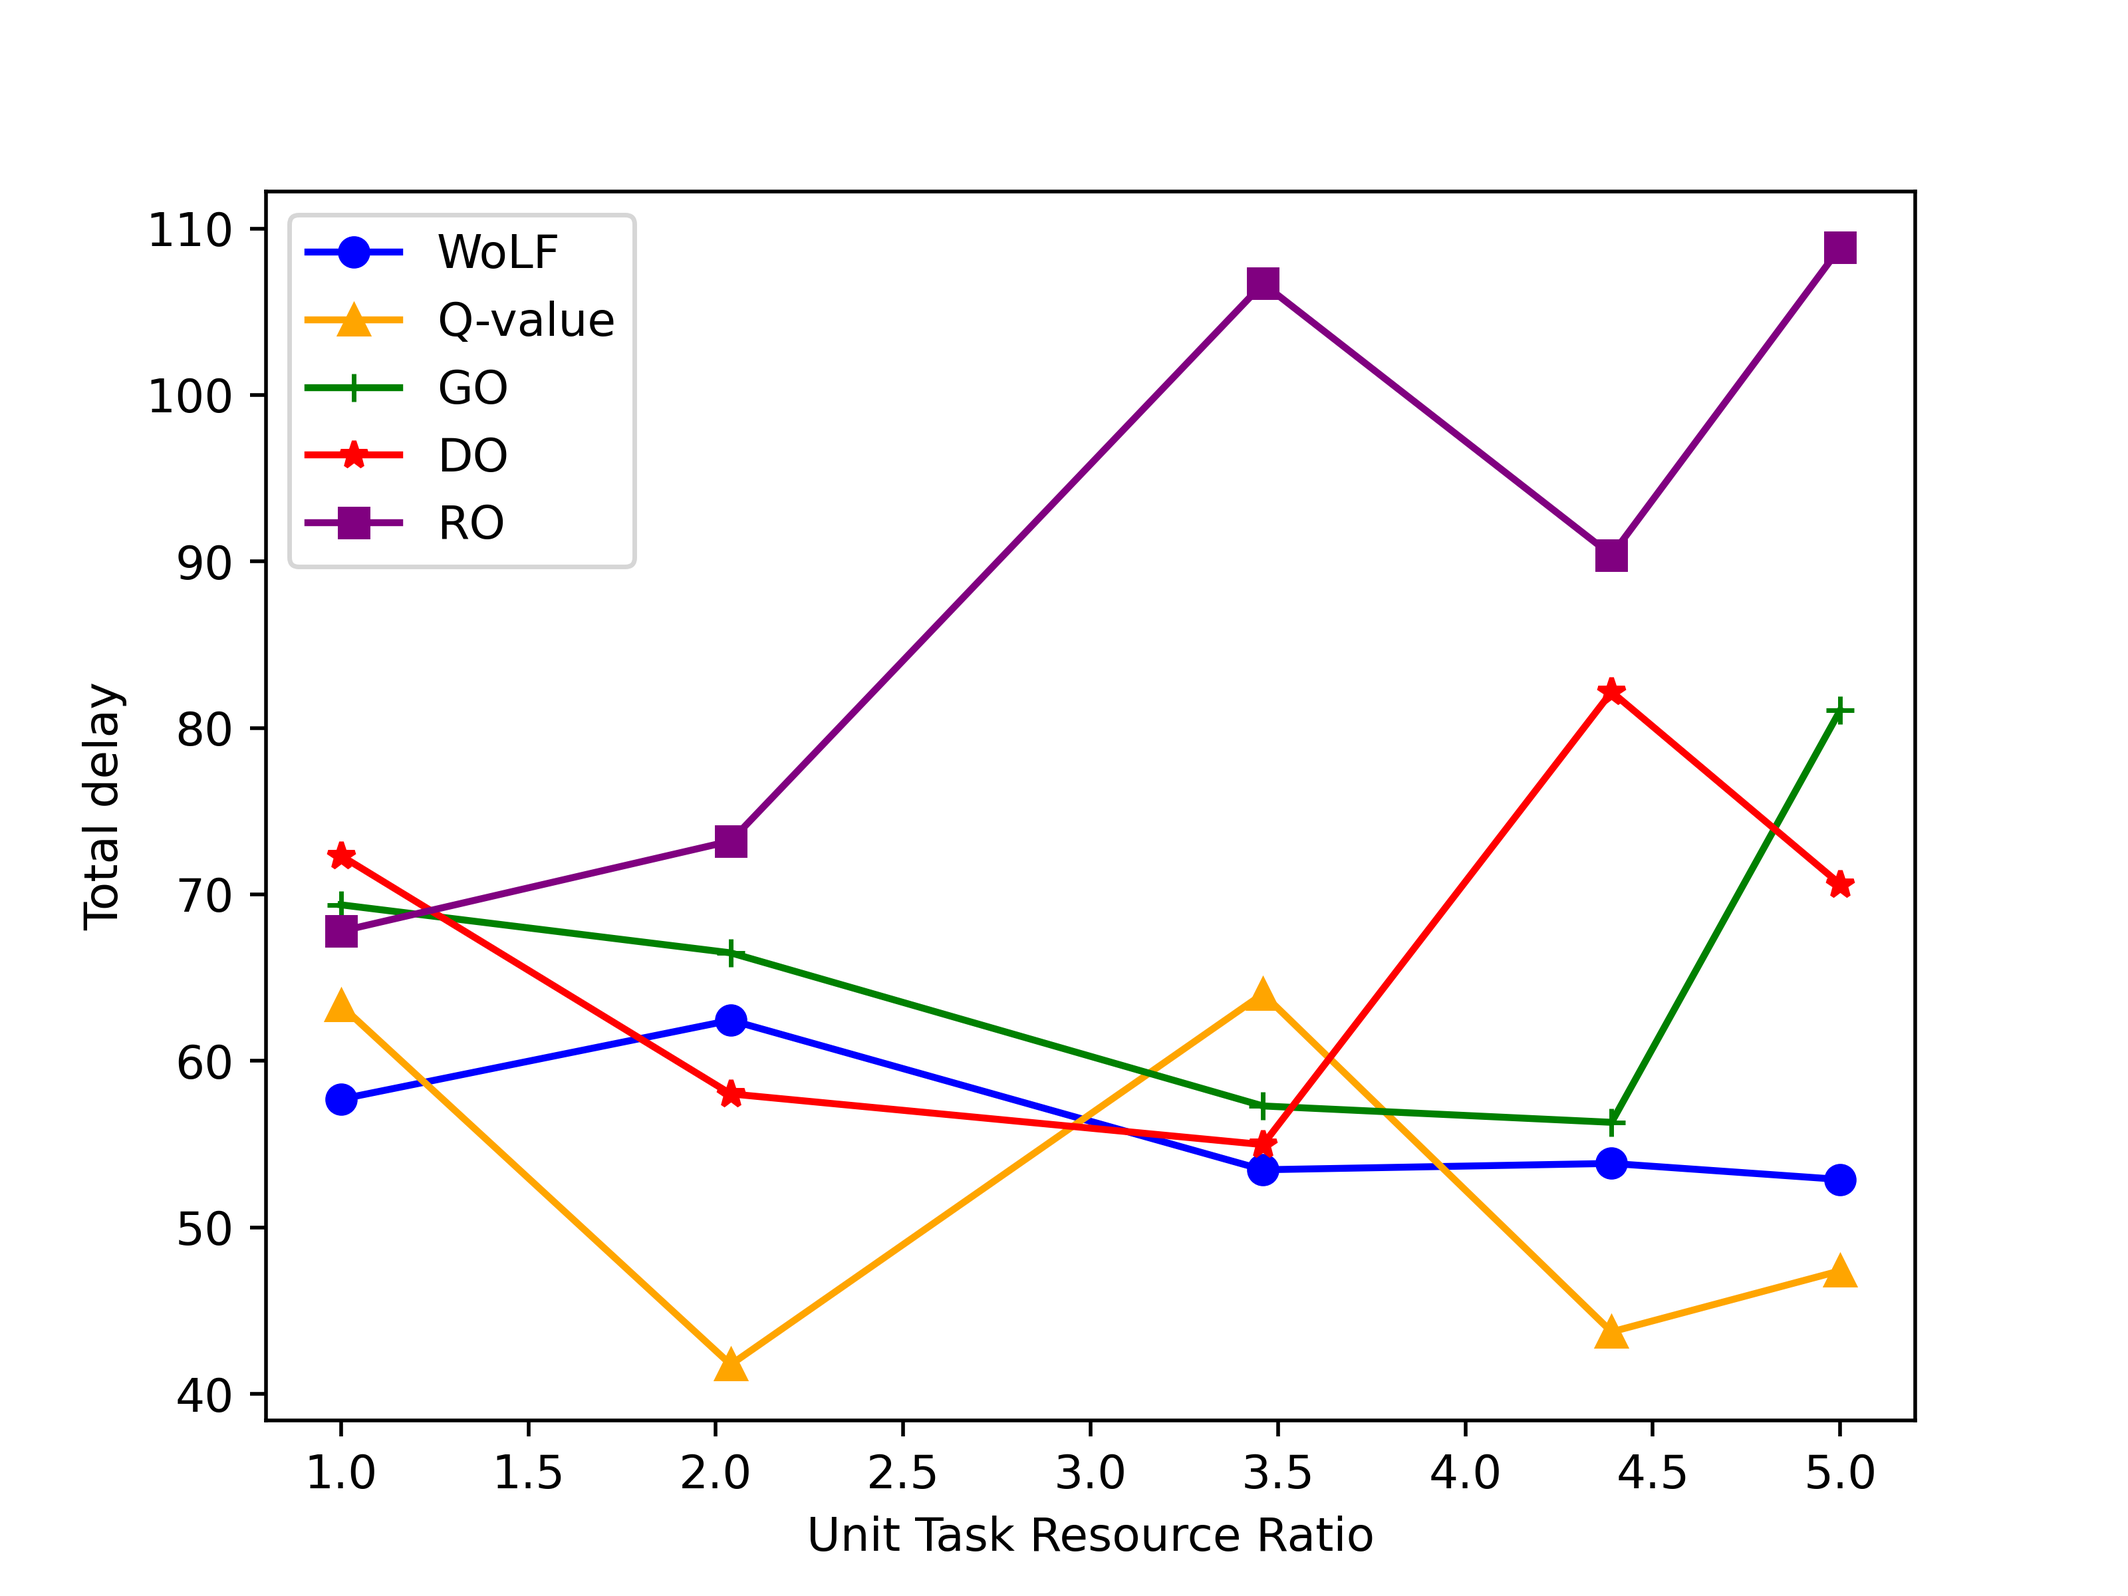
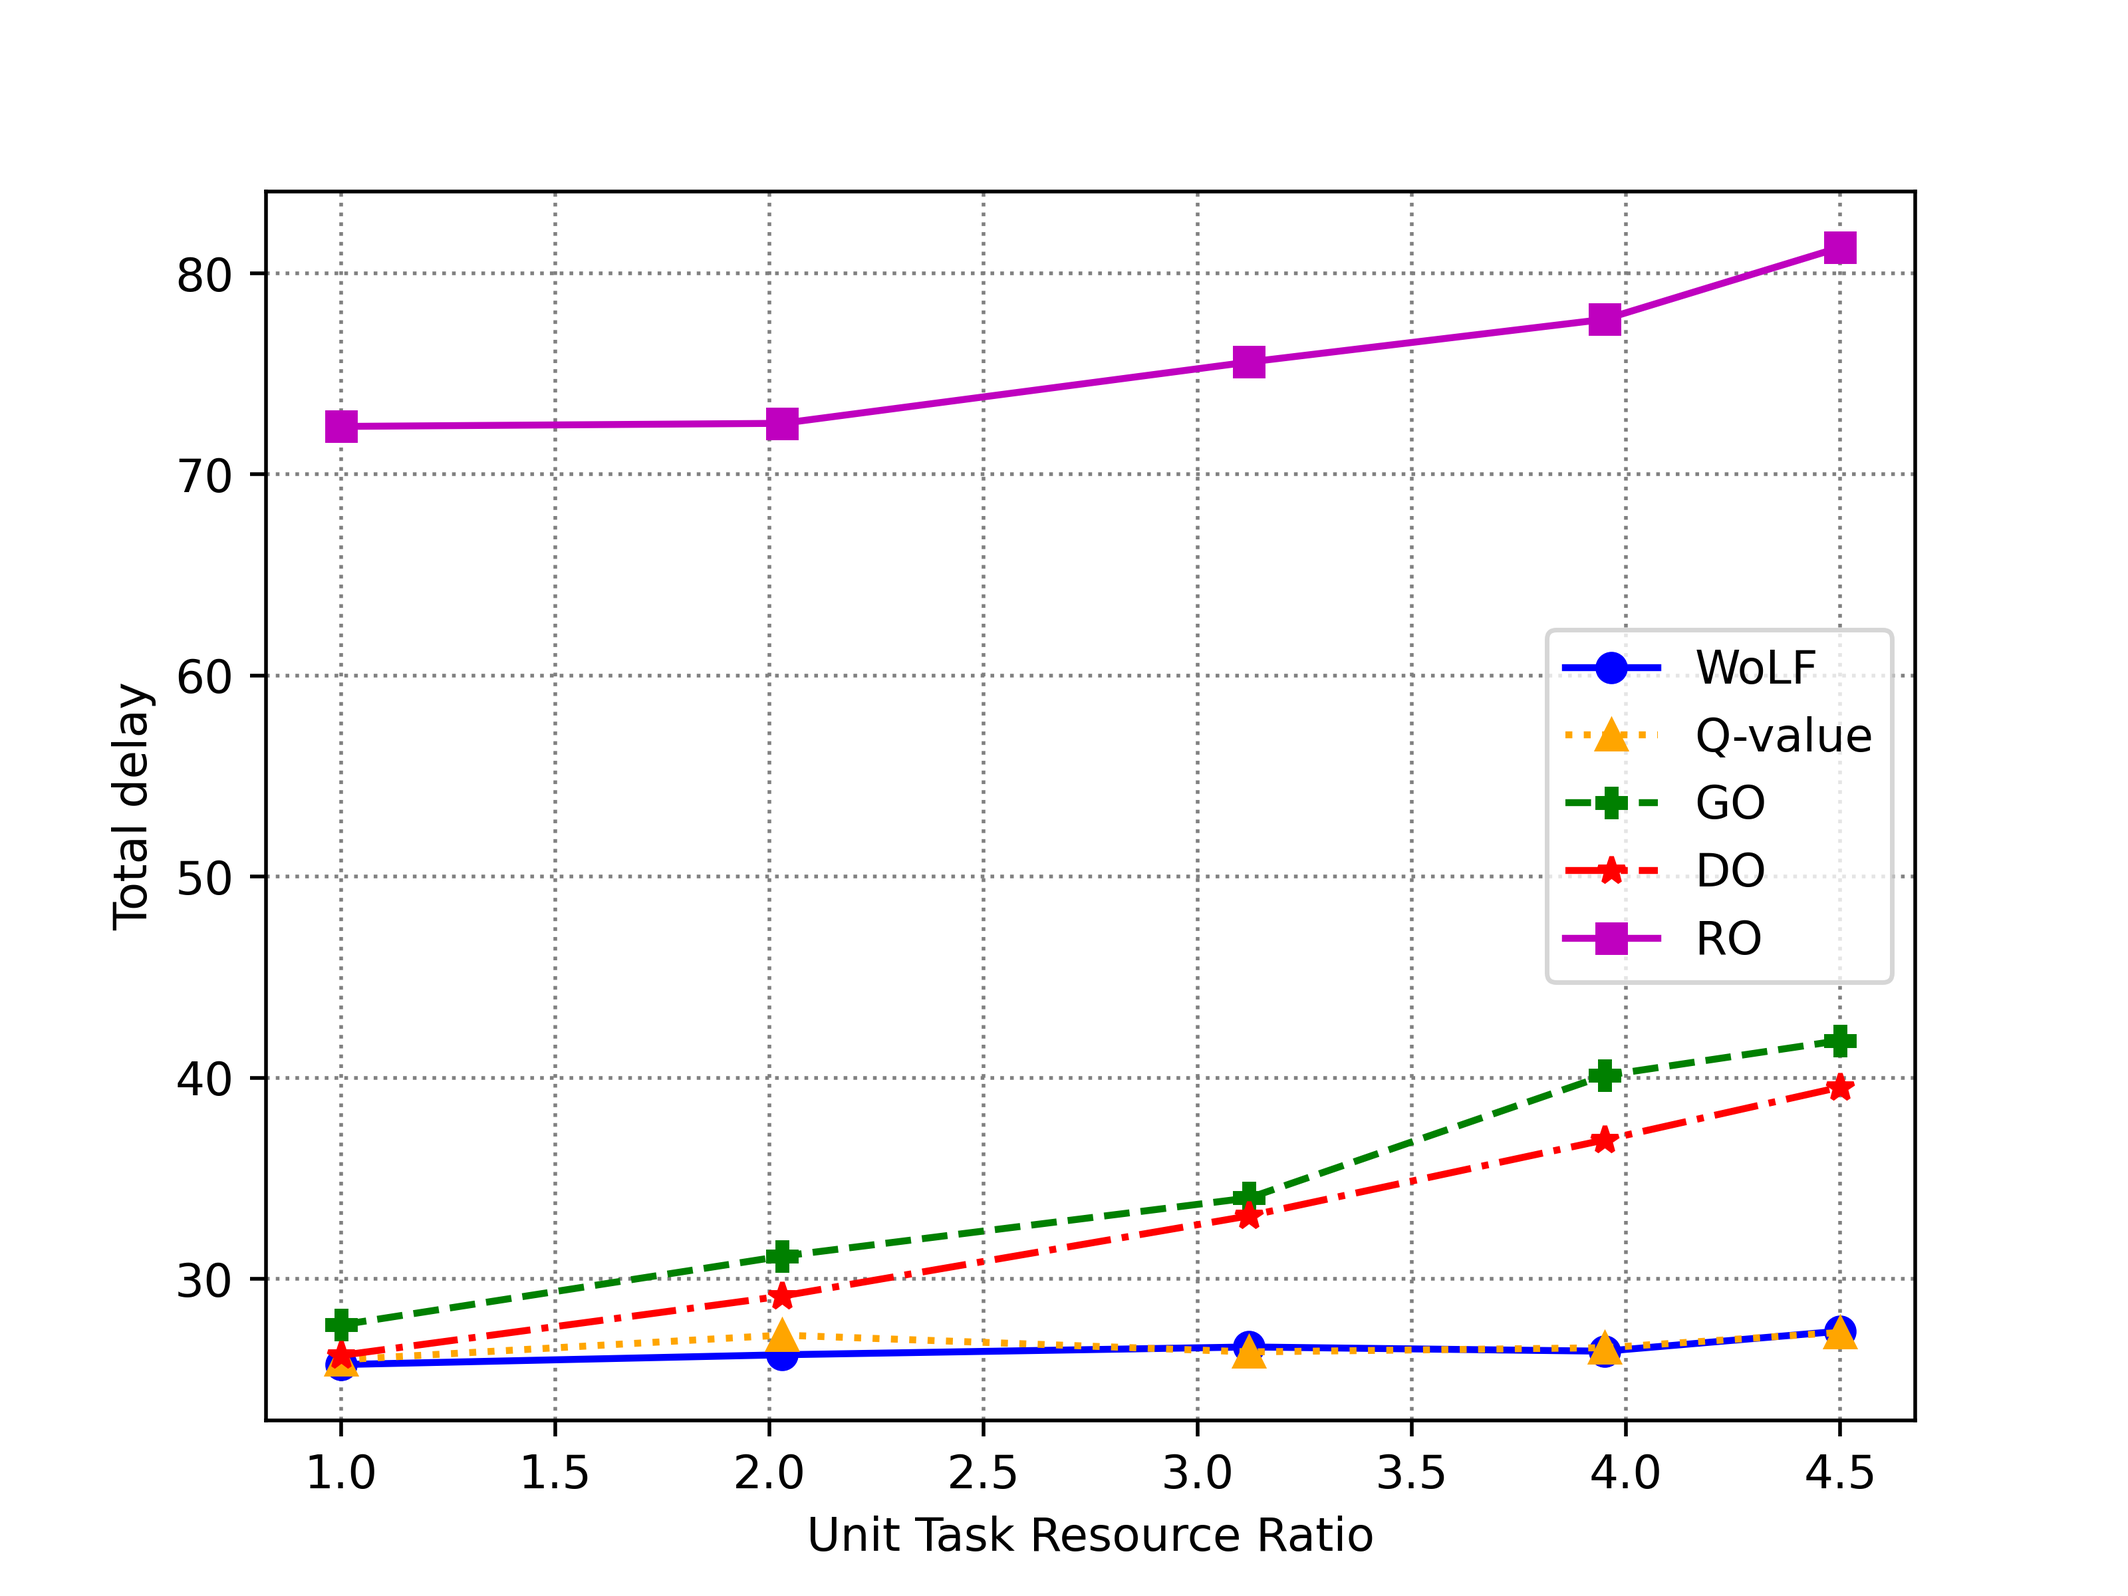
add

diff --git a/main.py b/main.py
@@ -31,7 +31,6 @@ def get_all_env():
         ap = AP(id=i, loc=loc, total_b=total_b, total_f=total_f, group=group)
         all_aps[group].append(ap)
 
-
     # if m == 4:
     #     ap_matrix = np.array([[0, 1, 1, 0],
     #                           [1, 0, 0, 1],
@@ -68,9 +67,9 @@ def get_all_env():
                     random.randint(WIRED_WIDTH_MIN, WIRED_WIDTH_MAX)
             else:
                 wired_width[i][j] = wired_width[i][j]
-    
+
     return {
-        'all_devices': all_devices, 
+        'all_devices': all_devices,
         'all_aps': all_aps,
         'ap_matrix': ap_matrix,
         'wired_width': wired_width
@@ -80,10 +79,10 @@ def get_all_env():
 def set_env(config, all_env):
     m = config['M'] if 'M' in config.keys() else M
     n = config['N'] if 'N' in config.keys() else N
-    num_ap_of_group1 = m / 2
-    num_ap_of_group2 = m / 2
-    num_md_of_group1 = n * MD_GROUP_RATIO[0] / sum(MD_GROUP_RATIO)
-    num_md_of_group2 = n * MD_GROUP_RATIO[1] / sum(MD_GROUP_RATIO)
+    num_ap_of_group1 = config['num_ap_of_group1'] if 'num_ap_of_group1' in config.keys() else m / 2
+    num_ap_of_group2 = config['num_ap_of_group2'] if 'num_ap_of_group2' in config.keys() else m / 2
+    num_md_of_group1 = config['num_md_of_group1'] if 'num_md_of_group1' in config.keys() else n * MD_GROUP_RATIO[0] / sum(MD_GROUP_RATIO)
+    num_md_of_group2 = config['num_md_of_group2'] if 'num_md_of_group2' in config.keys() else n * MD_GROUP_RATIO[1] / sum(MD_GROUP_RATIO)
 
     all_devices = all_env['all_devices']
     all_aps = all_env['all_aps']
@@ -104,7 +103,7 @@ def set_env(config, all_env):
                 break
     for idx, device in enumerate(devices):
         device.id = idx
-    
+
     aps = []
     aps_id = []
     for i in range(len(all_aps)):
@@ -131,22 +130,31 @@ def set_env(config, all_env):
 
 def get_balance_result(ex_config, all_env):
     results = [[] for _ in range(len(ex_config['methods']))]
-    for idx, method_name in enumerate(ex_config['methods']):
-        for n in ex_config['num_md_of_group']:
-            env_config = {
-                'num_md_of_group1': n[0],
-                'num_md_of_group2': n[1]
-            }
-            env = set_env(env_config, all_env)
-            result = train(env, method_name, config=ex_config['method_config'])
-            results[idx].append(result)
-        plt.plot(ex_config['x'], results[idx], color=ex_config['colors'][idx],
-                 marker=ex_config['markers'][idx], linewidth=2, label=method_name)
-    with open('./data/balance_result', mode='w') as f:
+    avg_results = [[] for _ in range(len(ex_config['methods']))]
+    for n in ex_config['num_md_of_group']:
+        print("num_md_of_group1: %d, num_md_of_group2: %d" % (n[0], n[1]))
+        env_config = {
+            'num_md_of_group1': n[0],
+            'num_md_of_group2': n[1]
+        }
+        env = set_env(env_config, all_env)
+        for idx, method_name in enumerate(ex_config['methods']):
+            e = copy.deepcopy(env)
+            sum_result, avg_result = train(e, method_name, config=ex_config['method_config'])
+            results[idx].append(sum_result)
+            avg_results[idx].append(avg_result)
+    with open('./data/balance_result.txt', mode='w') as f:
         for i in range(len(results)):
             for j in range(len(results[i])):
                 f.write('%.4f\t' % results[i][j])
             f.write('\n')
+    with open('./data/avg_balance_result.txt', mode='w') as f:
+        for i in range(len(avg_results)):
+            for j in range(len(avg_results[i])):
+                f.write('%.4f\t' % avg_results[i][j])
+            f.write('\n')
+    draw_balance_result(
+        data=results, ex_config=ex_config)
     # [TODO]标签待确认
     plt.xlabel('Unit Task Resource Ratio')
     plt.ylabel('Total delay')
@@ -155,42 +163,125 @@ def get_balance_result(ex_config, all_env):
     plt.show()
 
 
+def draw_balance_result(ex_config, data=None, file_name=None):
+    if not data and file_name:
+        data = []
+        with open(file=file_name, mode='r') as f:
+            for line in f.readlines():
+                data.append([float(i) for i in line.strip().split('\t')])
+    elif data:
+        pass
+    else:
+        raise ImportError
+    for idx in range(len(data)):
+        plt.plot(ex_config['x'], data[idx], color=ex_config['colors'][idx],
+                 marker=ex_config['markers'][idx], linestyle=ex_config['linestyles'][idx], label=ex_config['methods'][idx])
+    # [TODO]标签待确认
+    plt.xlabel('Resource imbalance')
+    plt.ylabel('Total delay')
+    plt.grid(ls=':', color='gray')  # 设置网格
+    plt.legend()
+    plt.savefig('./figs/balance_result.png', dpi=500)
+    plt.show()
+
+
 def get_delay_ap_result(ex_config, all_env):
     results = [[] for _ in range(len(ex_config['methods']))]
+    avg_results = [[] for _ in range(len(ex_config['methods']))]
     for m in ex_config['M']:
         print('Num of APs:%d' % m)
         env_config = {
-            'M': m,
-            'num_ap_of_group1': m/2
+            'M': m
         }
         env = set_env(env_config, all_env)
         for idx, method_name in enumerate(ex_config['methods']):
             e = copy.deepcopy(env)
-            result = train(e, method_name, config=ex_config['method_config'])
-            results[idx].append(result)
-    with open('./data/delay_ap_result%d.txt' % N, mode='w') as f:
+            sum_result, avg_result = train(e, method_name, config=ex_config['method_config'])
+            results[idx].append(sum_result)
+            avg_results[idx].append(avg_result)
+    with open('./data/delay_ap_result.txt', mode='w') as f:
         for i in range(len(results)):
             for j in range(len(results[i])):
                 f.write('%.4f\t' % results[i][j])
+            f.write('\n')
+    with open('./data/avg_delay_ap_result.txt', mode='w') as f:
+        for i in range(len(avg_results)):
+            for j in range(len(avg_results[i])):
+                f.write('%.4f\t' % avg_results[i][j])
             f.write('\n')
     draw_delay_ap_result(
         data=results, ex_config=ex_config)
 
 
-def draw_delay_ap_result(ex_config, data=None):
-    # if not data:
-    #     data = []
-    #     with open(file=file_name, mode='r') as f:
-    #         for line in f.readlines():
-    #             data.append([float(i) for i in line.strip().split('\t')])
+def draw_delay_ap_result(ex_config, data=None, file_name=None):
+    if not data and file_name:
+        data = []
+        with open(file=file_name, mode='r') as f:
+            for line in f.readlines():
+                data.append([float(i) for i in line.strip().split('\t')])
+    elif data:
+        pass
+    else:
+        raise ImportError
     for idx in range(len(data)):
         plt.plot(ex_config['M'], data[idx], color=ex_config['colors'][idx],
                  marker=ex_config['markers'][idx], linestyle=ex_config['linestyles'][idx], label=ex_config['methods'][idx])
     # [TODO]标签待确认
     plt.xlabel('Number of APs')
     plt.ylabel('Total delay')
+    plt.grid(ls=':', color='gray')  # 设置网格
     plt.legend()
-    plt.savefig('./figs/delay_ap_result_MD%d.png' % N, dpi=500)
+    plt.savefig('./figs/delay_ap_result.png', dpi=500)
+    plt.show()
+
+
+def get_delay_md_result(ex_config, all_env):
+    results = [[] for _ in range(len(ex_config['methods']))]
+    avg_results = [[] for _ in range(len(ex_config['methods']))]
+    for n in ex_config['N']:
+        print('Num of MDs:%d' % n)
+        env_config = {
+            'N': n
+        }
+        env = set_env(env_config, all_env)
+        for idx, method_name in enumerate(ex_config['methods']):
+            e = copy.deepcopy(env)
+            sum_result, avg_result = train(e, method_name, config=ex_config['method_config'])
+            results[idx].append(sum_result)
+            avg_results[idx].append(avg_result)
+    with open('./data/delay_md_result.txt', mode='w') as f:
+        for i in range(len(results)):
+            for j in range(len(results[i])):
+                f.write('%.4f\t' % results[i][j])
+            f.write('\n')
+    with open('./data/avg_delay_md_result.txt', mode='w') as f:
+        for i in range(len(avg_results)):
+            for j in range(len(avg_results[i])):
+                f.write('%.4f\t' % avg_results[i][j])
+            f.write('\n')
+    draw_delay_md_result(
+        data=results, ex_config=ex_config)
+
+
+def draw_delay_md_result(ex_config, data=None, file_name=None):
+    if not data and file_name:
+        data = []
+        with open(file=file_name, mode='r') as f:
+            for line in f.readlines():
+                data.append([float(i) for i in line.strip().split('\t')])
+    elif data:
+        pass
+    else:
+        raise ImportError
+    for idx in range(len(data)):
+        plt.plot(ex_config['N'], data[idx], color=ex_config['colors'][idx],
+                 marker=ex_config['markers'][idx], linestyle=ex_config['linestyles'][idx], label=ex_config['methods'][idx])
+    # [TODO]标签待确认
+    plt.xlabel('Number of MDs')
+    plt.ylabel('Total delay')
+    plt.grid(ls=':', color='gray')  # 设置网格
+    plt.legend()
+    plt.savefig('./figs/delay_md_result.png', dpi=500)
     plt.show()
 
 
@@ -201,7 +292,10 @@ if __name__ == "__main__":
     print('ex_name', ex_name)
     print('ex_config', ex_config)
     if ex_name == 'balance':
-        get_balance_result(ex_config)
+        get_balance_result(ex_config, all_env)
+        # draw_balance_result(ex_config, file_name='./data/balance_result.txt')
     if ex_name == 'delay_ap':
-        # draw_delay_ap_result(ex_config, file_name='./data/delay_ap_result.txt')
+        # draw_delay_ap_result(ex_config, file_name='./data/delay_ap_result40.txt')
         get_delay_ap_result(ex_config, all_env)
+    if ex_name == 'delay_md':
+        get_delay_md_result(ex_config, all_env)

diff --git a/config.py b/config.py
@@ -7,17 +7,17 @@ CONVER_DIFF = 0.05
 CONVER_EPOCH = 10
 
 # 环境参数
-SEED = 666
-N = 20  # 设备数 10的倍数
-M = 4  # AP数
-MD_GROUP_RATIO = [6, 4]
+SEED = 0
+N = 40  # 设备数 10的倍数
+M = 8  # AP数
+MD_GROUP_RATIO = [3, 2]
 # 下面两者相加应等于M
 NUM_AP_OF_GROUP1 = M / 2
 NUM_AP_OF_GROUP2 = M / 2
 # 下面两者相加应等于N
 NUM_MD_OF_GROUP1 = N * MD_GROUP_RATIO[0] / sum(MD_GROUP_RATIO)
 NUM_MD_OF_GROUP2 = N * MD_GROUP_RATIO[1] / sum(MD_GROUP_RATIO)
-MAX_EPOCHES = 500   # 最大迭代数
+MAX_EPOCHES = 300   # 最大迭代数
 
 # 环境参数
 WIDTH = 1  # 整片区域的长与宽，1km*1km
@@ -35,8 +35,8 @@ F_P_MAX = 0.15
 NUM_ACCESS_APS = 2
 
 # AP参数
-GROUP1_F = 60
-GROUP2_F = 40
+GROUP1_F = 40
+GROUP2_F = 60
 B_MIN = 5
 B_MAX = 40
 
@@ -56,7 +56,7 @@ MAX_APS = 12
 # delay_ap  时延与AP数量关系
 # delay_md  时延与MD数量关系
 # conver    收敛性实验
-EX_NAME = 'delay_ap'
+EX_NAME = 'balance'
 
 METHOD_CONFIG = {
     'lamda': LAMDA,
@@ -73,10 +73,10 @@ EX_CONFIG = {
         'methods': ['WoLF', 'Q-value', 'GO', 'DO', 'RO'],
         'method_config': METHOD_CONFIG,
         'colors': ['b', 'orange', 'g', 'r', 'm'],
-        'linestyles': ['-', '.', '--', '-.', '-'],
+        'linestyles': ['-', ':', '--', '-.', '-'],
         'markers': ['o', '^', 'P', '*', 's'],
-        'num_md_of_group': [[25, 15], [18, 22], [13, 27], [11, 29], [10, 30]],
-        'x': [1.00, 2.04, 3.46, 4.39, 5.00]
+        'num_md_of_group': [[16, 24], [23, 17], [27, 13], [29, 11], [30, 10]],
+        'x': [1.00, 2.03, 3.12, 3.95, 4.50]
     },
     'delay_ap': {
         'methods': ['WoLF', 'Q-value', 'GO', 'DO', 'RO'],
@@ -87,7 +87,12 @@ EX_CONFIG = {
         'M': [4, 6, 8, 10, 12],
     },
     'delay_md': {
-
+        'methods': ['WoLF', 'Q-value', 'GO', 'DO', 'RO'],
+        'method_config': METHOD_CONFIG,
+        'colors': ['b', 'orange', 'g', 'r', 'm'],
+        'linestyles': ['-', ':', '--', '-.', '-'],
+        'markers': ['o', '^', 'P', '*', 's'],
+        'N': [20, 30, 40, 50, 60],
     },
     'conver': {
 

diff --git a/train.py b/train.py
@@ -140,8 +140,8 @@ def train(env, method_name, config):
         avg_total_delay = sum_total_delay / env.N
         avg_total_delay_list.append(avg_total_delay)
         sum_total_delay_list.append(sum_total_delay)
-        pbar.set_description("%s | Num_of_AP %d | Epoch %d" %
-                             (method_name, env.M, epoch))
+        pbar.set_description("%s | Num_of_AP %d | Num_of_MD %d | Epoch %d" %
+                             (method_name, env.M, env.N, epoch))
         pbar.set_postfix(sum_total_delay=sum_total_delay,
                          avg_total_delay=avg_total_delay)
 
@@ -167,11 +167,13 @@ def train(env, method_name, config):
     # --------- 训练过程 ---------- #
 
     if method_name == 'RO':
-        result = np.average(sum_total_delay_list)
-        print('RO 结果: %.4f' % (np.average(sum_total_delay_list)))
-        return result
-    result = np.average(sum_total_delay_list[-config['conver_epoch']:])
-    print('%s 结果: %.4f' % (method_name, result))
+        sum_result = np.average(sum_total_delay_list)
+        avg_result = np.average(avg_total_delay_list)
+        print('RO 结果: 总时延: %.4f, 平均时延: %.4f' % (sum_result, avg_result))
+        return sum_result, avg_result
+    sum_result = np.average(sum_total_delay_list[-config['conver_epoch']:])
+    avg_result = np.average(avg_total_delay_list[-config['conver_epoch']:])
+    print('%s 结果: 总时延: %.4f, 平均时延: %.4f' % (method_name, sum_result, avg_result))
 
     # if epoch != max_epoches-1:
     #     result = np.average(sum_total_delay_list[-10:])
@@ -180,7 +182,7 @@ def train(env, method_name, config):
     #     result = np.average(sum_total_delay_list[-10:])
     #     print('%s 结果: %.4f' % (method_name, np.average(sum_total_delay_list[-10:])))
 
-    return result
+    return sum_result, avg_result
 
     # ---------- 作图 ------------- #
     # print(sum_total_delay_list)

diff --git a/model.py b/model.py
@@ -138,7 +138,7 @@ class Env(object):
     def get_path_between_aps(self):
         # shortest_path
         path_between_aps = [[[] for _ in range(self.M)] for _ in range(self.M)]
-        G = nx.from_numpy_matrix(np.array(self.ap_matrix))
+        G = nx.from_numpy_array(np.array(self.ap_matrix))
         for m in range(self.M):
             for n in range(self.M):
                 path_between_aps[m][n] = nx.shortest_path(
